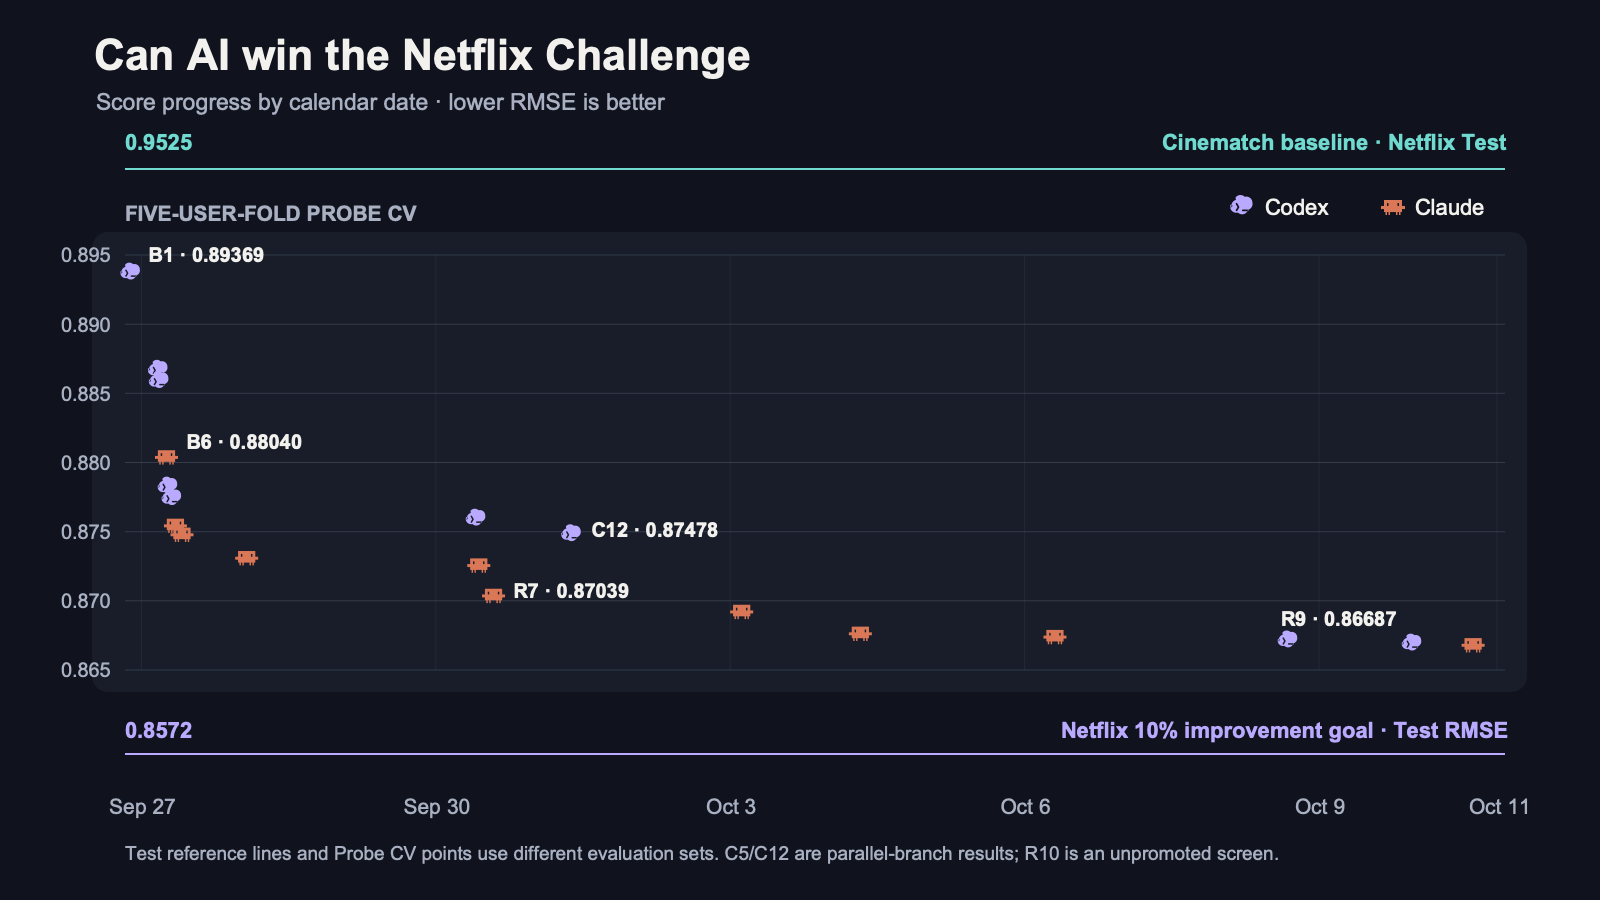
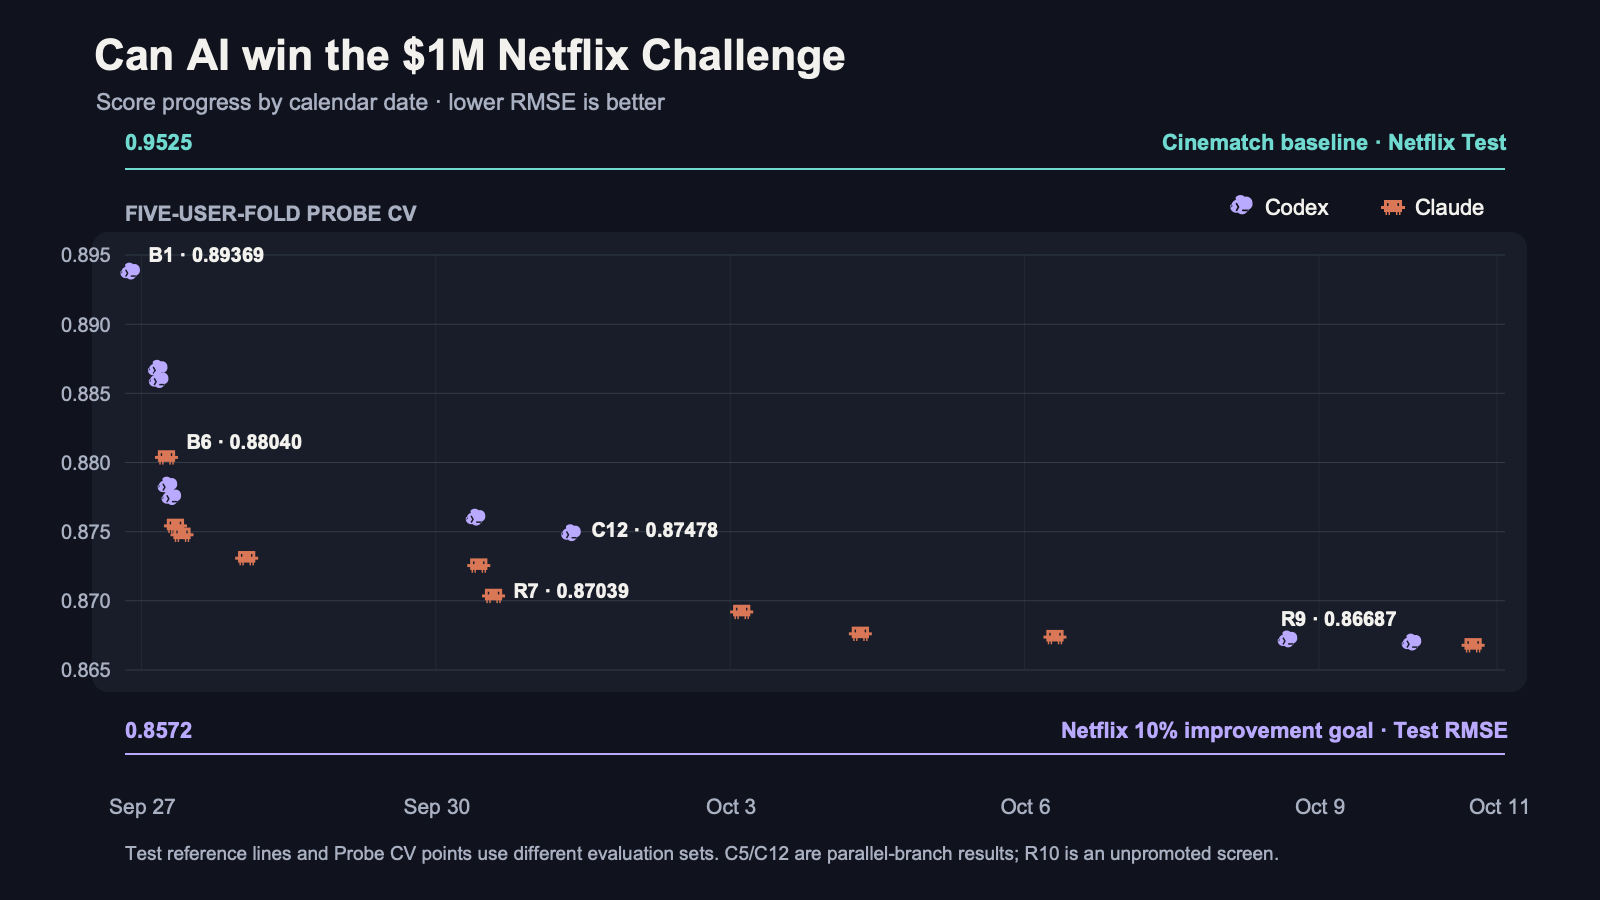
Update challenge title to include the prize

Changed region(s): [[0.25, 0.0311, 0.5312, 0.0933]]

diff --git a/research_journey.html b/research_journey.html
@@ -4,7 +4,7 @@
   <meta charset="utf-8">
   <meta name="viewport" content="width=device-width, initial-scale=1">
   <meta name="theme-color" content="#11131a">
-  <title>Can AI win the Netflix Challenge</title>
+  <title>Can AI win the $1M Netflix Challenge</title>
   <style>
     :root{--bg:#101218;--surface:#191c26;--surface2:#222633;--ink:#f5f1ea;--muted:#b6b5c0;--line:#3c404f;--red:#fa515f;--redSoft:rgba(250,81,95,.15);--gold:#f6c26b;--cyan:#70d9d0;--violet:#b6a5ff;--green:#90d6a2;--focus:#fff;--shadow:0 22px 70px rgba(0,0,0,.25)}
     *{box-sizing:border-box}html{scroll-behavior:smooth}body{margin:0;background:radial-gradient(circle at 90% 0%,rgba(250,81,95,.11),transparent 27%),var(--bg);color:var(--ink);font:16px/1.55 system-ui,-apple-system,BlinkMacSystemFont,"Segoe UI",sans-serif}a{color:var(--cyan);text-underline-offset:3px}a:hover{color:#a6f4ee}button,select{font:inherit}button{cursor:pointer}button:focus-visible,select:focus-visible,a:focus-visible,[tabindex]:focus-visible{outline:3px solid var(--focus);outline-offset:3px}p{margin:.5rem 0 1rem}h1,h2,h3{line-height:1.12;letter-spacing:-.03em}h1{font-size:clamp(2.6rem,8vw,5.7rem);margin:.5rem 0 1rem;max-width:13ch}h2{font-size:clamp(1.7rem,4vw,2.6rem);margin:0 0 .8rem}h3{font-size:1.12rem;margin:.15rem 0 .6rem}strong{font-weight:750}small,.small{font-size:.82rem;color:var(--muted)}code{font-size:.92em;color:var(--gold)}
@@ -26,7 +26,7 @@
   <div class="topbar"><div class="brand">NETFLIX PRIZE / RESEARCH CUT</div><nav class="topnav" aria-label="Sections"><a href="#timeline">Timeline</a><a href="#runtime">Runtime lab</a><a href="#strategies">Strategies</a><a href="#integration">Integration</a><a href="#credit">Model credit</a><a href="#sources">Evidence</a></nav></div>
   <header class="hero">
     <div class="eyebrow">September 27 → October 11, 2026 · Original Probe development</div>
-    <h1>Can AI win the Netflix Challenge</h1>
+    <h1>Can AI win the $1M Netflix Challenge</h1>
     <p class="lead">From biases to factors, neighbors, RBMs, masked sequences and a final blend with latent features. Follow the experiments, including the bets that looked promising but did not earn promotion.</p>
     <p class="hero-note"><strong>Read the score honestly:</strong> lower RMSE is better. Netflix's Cinematch baseline was 0.9525 on its hidden Test set, and the 10% improvement target was 0.8572. Our promoted 0.8668706 is five-user-fold development CV on the original Probe split, so it does not establish a prize-winning hidden-Test score. Early single-model points use another evaluation protocol. <a href="https://netflixtechblog.com/netflix-recommendations-beyond-the-5-stars-part-1-55838468f429">Netflix's baseline and target</a>.</p>
     <div class="scoreline" aria-label="Challenge comparison"><div class="scorebox"><span class="value">0.9525</span><span class="label">Cinematch baseline · Netflix Test RMSE</span></div><div class="scorebox"><span class="value">0.8572</span><span class="label">Netflix's 10% improvement target · Test RMSE</span></div><div class="scorebox"><span class="value">0.86687</span><span class="label">Our promoted user-fold development CV</span></div></div>

diff --git a/research_journey.template.html b/research_journey.template.html
@@ -4,7 +4,7 @@
   <meta charset="utf-8">
   <meta name="viewport" content="width=device-width, initial-scale=1">
   <meta name="theme-color" content="#11131a">
-  <title>Can AI win the Netflix Challenge</title>
+  <title>Can AI win the $1M Netflix Challenge</title>
   <style>
     :root{--bg:#101218;--surface:#191c26;--surface2:#222633;--ink:#f5f1ea;--muted:#b6b5c0;--line:#3c404f;--red:#fa515f;--redSoft:rgba(250,81,95,.15);--gold:#f6c26b;--cyan:#70d9d0;--violet:#b6a5ff;--green:#90d6a2;--focus:#fff;--shadow:0 22px 70px rgba(0,0,0,.25)}
     *{box-sizing:border-box}html{scroll-behavior:smooth}body{margin:0;background:radial-gradient(circle at 90% 0%,rgba(250,81,95,.11),transparent 27%),var(--bg);color:var(--ink);font:16px/1.55 system-ui,-apple-system,BlinkMacSystemFont,"Segoe UI",sans-serif}a{color:var(--cyan);text-underline-offset:3px}a:hover{color:#a6f4ee}button,select{font:inherit}button{cursor:pointer}button:focus-visible,select:focus-visible,a:focus-visible,[tabindex]:focus-visible{outline:3px solid var(--focus);outline-offset:3px}p{margin:.5rem 0 1rem}h1,h2,h3{line-height:1.12;letter-spacing:-.03em}h1{font-size:clamp(2.6rem,8vw,5.7rem);margin:.5rem 0 1rem;max-width:13ch}h2{font-size:clamp(1.7rem,4vw,2.6rem);margin:0 0 .8rem}h3{font-size:1.12rem;margin:.15rem 0 .6rem}strong{font-weight:750}small,.small{font-size:.82rem;color:var(--muted)}code{font-size:.92em;color:var(--gold)}
@@ -26,7 +26,7 @@
   <div class="topbar"><div class="brand">NETFLIX PRIZE / RESEARCH CUT</div><nav class="topnav" aria-label="Sections"><a href="#timeline">Timeline</a><a href="#runtime">Runtime lab</a><a href="#strategies">Strategies</a><a href="#integration">Integration</a><a href="#credit">Model credit</a><a href="#sources">Evidence</a></nav></div>
   <header class="hero">
     <div class="eyebrow">September 27 → October 11, 2026 · Original Probe development</div>
-    <h1>Can AI win the Netflix Challenge</h1>
+    <h1>Can AI win the $1M Netflix Challenge</h1>
     <p class="lead">From biases to factors, neighbors, RBMs, masked sequences and a final blend with latent features. Follow the experiments, including the bets that looked promising but did not earn promotion.</p>
     <p class="hero-note"><strong>Read the score honestly:</strong> lower RMSE is better. Netflix's Cinematch baseline was 0.9525 on its hidden Test set, and the 10% improvement target was 0.8572. Our promoted 0.8668706 is five-user-fold development CV on the original Probe split, so it does not establish a prize-winning hidden-Test score. Early single-model points use another evaluation protocol. <a href="https://netflixtechblog.com/netflix-recommendations-beyond-the-5-stars-part-1-55838468f429">Netflix's baseline and target</a>.</p>
     <div class="scoreline" aria-label="Challenge comparison"><div class="scorebox"><span class="value">0.9525</span><span class="label">Cinematch baseline · Netflix Test RMSE</span></div><div class="scorebox"><span class="value">0.8572</span><span class="label">Netflix's 10% improvement target · Test RMSE</span></div><div class="scorebox"><span class="value">0.86687</span><span class="label">Our promoted user-fold development CV</span></div></div>

diff --git a/scripts/render_progress_graph.py b/scripts/render_progress_graph.py
@@ -45,11 +45,11 @@ ICONS = {name: icon_path(name) for name in ("claude", "codex")}
 COLOR = {"claude": "#D97757", "codex": "#BAAAFF"}
 svg = [
     f'<svg xmlns="http://www.w3.org/2000/svg" width="{WIDTH}" height="{HEIGHT}" viewBox="0 0 {WIDTH} {HEIGHT}" role="img" aria-labelledby="title desc">',
-    '<title id="title">Netflix Prize research score progress</title>',
+    '<title id="title">Can AI win the $1M Netflix Challenge</title>',
     '<desc id="desc">Five-user-fold Probe CV scores from B1 through R10, with Codex and Claude logos, and separate Cinematch and ten-percent Test reference bands.</desc>',
     '<rect width="1600" height="900" fill="#10131d"/>',
     '<rect x="92" y="232" width="1435" height="460" rx="16" fill="#181d29"/>',
-    '<text x="94" y="70" fill="#f2f1ed" font-family="Arial,Helvetica,sans-serif" font-size="43" font-weight="700">Can AI win the Netflix Challenge</text>',
+    '<text x="94" y="70" fill="#f2f1ed" font-family="Arial,Helvetica,sans-serif" font-size="43" font-weight="700">Can AI win the $1M Netflix Challenge</text>',
     '<text x="96" y="110" fill="#a8b0c2" font-family="Arial,Helvetica,sans-serif" font-size="23">Score progress by calendar date · lower RMSE is better</text>',
 ]
 
